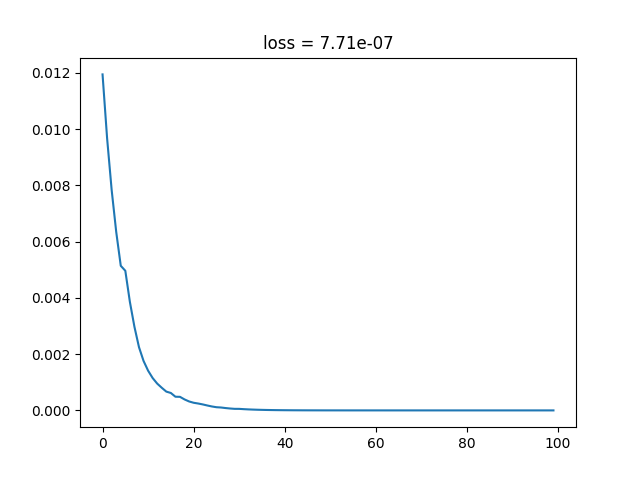
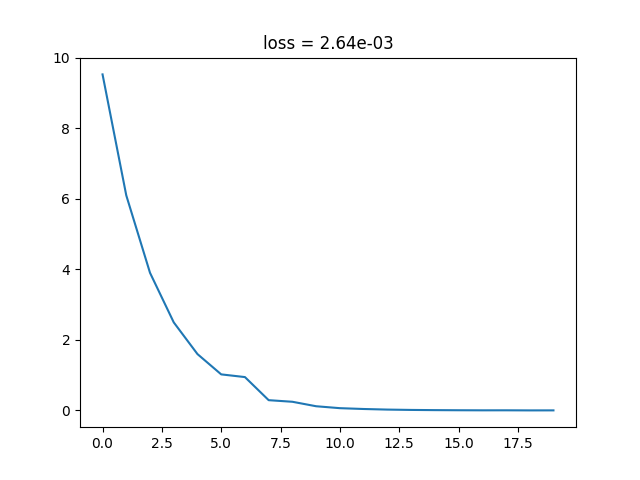
fixed some bugs for toll searches

diff --git a/opt_toll_noseg.py b/opt_toll_noseg.py
@@ -19,8 +19,8 @@ from tqdm import tqdm
 
 ## Script Options
 N_CPU = 1
-DENSITY_RECALIBRATE = True
-DENSITY_RETRAIN = True
+DENSITY_RECALIBRATE = False
+DENSITY_RETRAIN = False
 TRAIN_FRAC = 0.8#0.8
 
 ## Hyperparameters
@@ -167,7 +167,7 @@ for hour_idx in range(N_HOUR):
         origin_seg = segment_lst[s_o]
         for s_d in range(s_o, S):
             dest_seg = segment_lst[s_d]
-            HOUR_OD_DEMAND[hour_idx * segment_type_num + segment_idx] = df_od_demand[(df_od_demand["Hour"] == hour) & (df_od_demand["Origin"] == origin_seg) & (df_od_demand["Destination"] == dest_seg)].iloc[0]["Demand"] / 12
+            HOUR_OD_DEMAND[hour_idx * segment_type_num + segment_idx] = df_od_demand[(df_od_demand["Hour"] == hour) & (df_od_demand["Origin"] == origin_seg) & (df_od_demand["Destination"] == dest_seg)].iloc[0]["Demand"] #/ 12
             segment_idx += 1
 ###
 #N_DATES = len(df["Date"].unique())
@@ -774,15 +774,7 @@ def get_segment_pop(density, hour_idx):
     return segment_pop
 
 def get_flow_from_toll_iterative(density, tau_cs, meta_data = None, rho = 0.25, hour_idx = 12, num_itr = 10, lam = 0.5, schedule_lst = [], eta = 1):
-    if meta_data is not None:
-        N_HOUR = meta_data["N_HOUR"]
-        S = meta_data["S"]
-        C = meta_data["C"]
-        segment_type_num = meta_data["segment_type_num"]
-        BETA_RANGE_LST = meta_data["BETA_RANGE_LST"]
-        GAMMA_RANGE_DCT = meta_data["GAMMA_RANGE_DCT"]
-        HOUR_OD_DEMAND = meta_data["HOUR_OD_DEMAND"]
-        DISTANCE_ARR = meta_data["DISTANCE_ARR"]
+    global DISTANCE_ARR
     ### Get grid
     beta_lst, gamma_lst_c, d_idx_start_lst = get_grid(beta_range_lst = BETA_RANGE_LST, gamma_range_dct = GAMMA_RANGE_DCT)
     single_t_d_len = len(d_idx_start_lst) - 1
@@ -838,19 +830,18 @@ def get_flow_from_toll_iterative(density, tau_cs, meta_data = None, rho = 0.25, 
                 o_idx_lst = np.arange(begin, seg_end, S * 2)
                 h_idx_lst = o_idx_lst + 1
                 if segment_density_lst[segment_type_idx] > 1:
-                    segment_type_strategy[o_idx_lst] = 1 / (segment_len_lst[segment_type_idx] * C * 2)
-                    segment_type_strategy[h_idx_lst] = 1 / (segment_len_lst[segment_type_idx] * C * 2)
-                    if density_sum > 1:
+                    segment_type_strategy[o_idx_lst] = 1 / (C * 2) #1 / (segment_len_lst[segment_type_idx] * C * 2)
+                    segment_type_strategy[h_idx_lst] = 1 / (C * 2) #1 / (segment_len_lst[segment_type_idx] * C * 2)
+                    if density_sum > 0:
                         for d_idx in range(single_t_d_len):
-                            d_val = density[hour_idx * single_t_d_len + d_idx] #* HOUR_OD_DEMAND[hour_idx * segment_type_num + segment_type_idx]
+                            d_val = density[hour_idx * single_t_d_len + d_idx]
                             elem_num = d_idx_start_lst[d_idx + 1] - d_idx_start_lst[d_idx]
                             equi_val = d_val / elem_num / density_sum / segment_len_lst[segment_type_idx]
                             equi_profile_to_strategy_density_vec[d_idx_start_lst[d_idx]:d_idx_start_lst[d_idx+1],o_idx_lst] = equi_val
                             equi_profile_to_strategy_density_vec[d_idx_start_lst[d_idx]:d_idx_start_lst[d_idx+1],h_idx_lst] = equi_val
-                            equi_profile_to_strategy_pop_vec[d_idx_start_lst[d_idx]:d_idx_start_lst[d_idx+1],o_idx_lst] = equi_val * density_sum
-                            equi_profile_to_strategy_pop_vec[d_idx_start_lst[d_idx]:d_idx_start_lst[d_idx+1],h_idx_lst] = equi_val * density_sum
+                            equi_profile_to_strategy_pop_vec[d_idx_start_lst[d_idx]:d_idx_start_lst[d_idx+1],o_idx_lst] = equi_val * density_sum * demand
+                            equi_profile_to_strategy_pop_vec[d_idx_start_lst[d_idx]:d_idx_start_lst[d_idx+1],h_idx_lst] = equi_val * density_sum * demand
             segment_type_idx += 1
-#    print(equi_profile_to_strategy_density_vec.sum(), segment_type_strategy.sum())
     o_lanes = int(NUM_LANES * (1 - rho))
     h_lanes = NUM_LANES - o_lanes
     utility_cost_arr = []
@@ -860,7 +851,7 @@ def get_flow_from_toll_iterative(density, tau_cs, meta_data = None, rho = 0.25, 
     segment_type_strategy_to_flow_o_map = torch.from_numpy(segment_type_strategy_to_flow_o_map)
     segment_type_strategy_to_flow_h_map = torch.from_numpy(segment_type_strategy_to_flow_h_map)
     segment_type_strategy = torch.from_numpy(segment_type_strategy).requires_grad_()
-    DISTANCE_ARR = torch.tensor(DISTANCE_ARR)
+    DISTANCE_ARR = torch.from_numpy(DISTANCE_ARR)
     beta_lst = torch.from_numpy(beta_lst)
     gamma_lst_c = torch.from_numpy(gamma_lst_c)
     tau_cs = torch.from_numpy(tau_cs)
@@ -879,23 +870,18 @@ def get_flow_from_toll_iterative(density, tau_cs, meta_data = None, rho = 0.25, 
         sigma_s[:,1::2] += sigma_s_h.reshape((len(beta_lst), segment_type_strategy_len // 2))
         equi_profile = (equi_profile_to_strategy_density_vec * sigma_s).sum(dim = 0)
         ### Update the guess
-        ratio = 1 / segment_type_strategy.view((segment_type_num, -1)).sum(dim = 1).repeat_interleave(C * S * 2)
-        EPS = 1e-3
-        seg_prob = torch.clip(segment_type_strategy * ratio / segment_type_num, EPS, 1 - EPS)
-        equi_prob = torch.clip(equi_profile / segment_type_num, EPS, 1 - EPS)
+#        ratio = 1 / segment_type_strategy.view((segment_type_num, -1)).sum(dim = 1).repeat_interleave(C * S * 2)
+#        EPS = 1e-3
+#        seg_prob = torch.clip(segment_type_strategy * ratio / segment_type_num, EPS, 1 - EPS)
+#        equi_prob = torch.clip(equi_profile / segment_type_num, EPS, 1 - EPS)
         sq_loss = torch.sum((segment_type_strategy - equi_profile) ** 2)
-        loss = -torch.sum(seg_prob * torch.log(equi_prob) + (1 - seg_prob) * torch.log(1 - equi_prob))
-        const_loss = torch.mean((segment_type_strategy.view((segment_type_num, -1)).sum(dim = 1) - 1) ** 2) * 100
+#        loss = -torch.sum(seg_prob * torch.log(equi_prob) + (1 - seg_prob) * torch.log(1 - equi_prob))
+#        const_loss = torch.mean((segment_type_strategy.view((segment_type_num, -1)).sum(dim = 1) - 1) ** 2) * 100
         loss = sq_loss
-#        sq_loss += const_loss
-        sq_loss.backward()
 #        loss += const_loss
-#        loss.backward()
+        loss.backward()
         with torch.no_grad():
             segment_type_strategy -= lam * segment_type_strategy.grad
-#            ratio = 1 / segment_type_strategy.view((segment_type_num, -1)).sum(dim = 1).repeat_interleave(C * S * 2)
-#            segment_type_strategy *= ratio
-#            print(segment_type_strategy.view((segment_type_num, -1)).sum(dim = 1))
         loss_arr.append(float(loss.data))
         segment_type_strategy.grad.zero_()
         if itr in schedule_lst:
@@ -904,15 +890,8 @@ def get_flow_from_toll_iterative(density, tau_cs, meta_data = None, rho = 0.25, 
         latency_tmp[::2] = latency_o.detach().numpy()
         latency_tmp[1::2] = latency_h.detach().numpy()
         latency_lst = np.tile(latency_tmp, segment_type_num * C).reshape((1, segment_type_strategy_len))
-#        if itr > 0:
-#            total_utility_cost_prev = (equi_profile_dens * (beta_lst.reshape((len(beta_lst), 1)) * latency_lst + tau_lst + gamma_lst_c_long)).sum()
-#            equi_profile_dens = equi_profile_to_strategy_density_vec * sigma_s
-#            total_utility_cost = (equi_profile_dens * (beta_lst.reshape((len(beta_lst), 1)) * latency_lst + tau_lst + gamma_lst_c_long)).sum()
-#            utility_cost_arr.append(total_utility_cost_prev - total_utility_cost)
-#        else:
-#            equi_profile_dens = equi_profile_to_strategy_density_vec * sigma_s
-    print(segment_type_strategy.data)
-    print(equi_profile.data)
+#    print(segment_type_strategy.data)
+#    print(equi_profile.data)
     segment_type_strategy = segment_type_strategy.detach().numpy()
     sigma_s = sigma_s.detach().numpy()
     segment_type_strategy_to_flow_o_map = segment_type_strategy_to_flow_o_map.numpy()
@@ -941,22 +920,13 @@ def get_flow_from_toll_iterative(density, tau_cs, meta_data = None, rho = 0.25, 
     total_utility_cost = (equi_profile_pop * (beta_lst.reshape((len(beta_lst), 1)) * latency_lst + tau_lst + gamma_lst_c_long)).sum()
     flow_o_equi = flow_o
     flow_h_equi = segment_type_strategy_to_flow_h2_map @ segment_type_strategy
-    plt.plot(loss_arr)
-    plt.title(loss_arr[-1])
-    plt.show()
-    assert False
+#    plt.plot(loss_arr)
+#    plt.title(loss_arr[-1])
+#    plt.show()
+#    assert False
     return segment_type_strategy, loss_arr, latency_o, latency_h, utility_cost_arr, total_travel_time, total_emission, total_revenue, total_utility_cost, flow_o_equi, flow_h_equi
 
 def get_flow_from_toll_iterative_heuristic(density, tau_cs, meta_data = None, rho = 0.25, hour_idx = 12, num_itr = 10, lam = 0.5):
-    if meta_data is not None:
-        N_HOUR = meta_data["N_HOUR"]
-        S = meta_data["S"]
-        C = meta_data["C"]
-        segment_type_num = meta_data["segment_type_num"]
-        BETA_RANGE_LST = meta_data["BETA_RANGE_LST"]
-        GAMMA_RANGE_DCT = meta_data["GAMMA_RANGE_DCT"]
-        HOUR_OD_DEMAND = meta_data["HOUR_OD_DEMAND"]
-        DISTANCE_ARR = meta_data["DISTANCE_ARR"]
     ### Get grid
     beta_lst, gamma_lst_c, d_idx_start_lst = get_grid(beta_range_lst = BETA_RANGE_LST, gamma_range_dct = GAMMA_RANGE_DCT)
     single_t_d_len = len(d_idx_start_lst) - 1
@@ -976,9 +946,9 @@ def get_flow_from_toll_iterative_heuristic(density, tau_cs, meta_data = None, rh
     segment_len_lst = np.zeros(segment_type_num)
     for c in range(C):
         segment_type_idx = 0
-        demand = HOUR_OD_DEMAND[hour_idx * segment_type_num + segment_type_idx]
         for s_o in range(S):
             for s_d in range(s_o, S):
+                demand = HOUR_OD_DEMAND[hour_idx * segment_type_num + segment_type_idx]
                 col_idx_o_begin = segment_type_idx * C * S * 2 + c * S * 2 + s_o * 2
                 col_idx_o_end = segment_type_idx * C * S * 2 + c * S * 2 + (s_d + 1) * 2
                 col_idx_h_begin = col_idx_o_begin + 1
@@ -1082,9 +1052,6 @@ def get_flow_from_toll_iterative_heuristic(density, tau_cs, meta_data = None, rh
     total_utility_cost = (equi_profile_pop * (beta_lst.reshape((len(beta_lst), 1)) * latency_lst + tau_lst + gamma_lst_c_long)).sum()
     flow_o_equi = flow_o
     flow_h_equi = segment_type_strategy_to_flow_h2_map @ segment_type_strategy
-    plt.plot(loss_arr)
-    plt.show()
-    assert False
     return segment_type_strategy, loss_arr, latency_o, latency_h, utility_cost_arr, total_travel_time, total_emission, total_revenue, total_utility_cost, flow_o_equi, flow_h_equi
 
 def describe_segment_type_strategy(sigma, density, hour_idx, eps = 1e-3):
@@ -1124,7 +1091,7 @@ def toll_design_grid_search_single(tau_tup_lst, density, hour_idx = 12, tau_max 
         tau_cs[1,:] = tau_cs[0,:] / 4
         for rho in rho_lst:
             ### segment_type_num * C * S * 2
-            segment_type_strategy, loss_arr, latency_o, latency_h, total_travel_time, total_emission, total_revenue, total_utility_cost, _, _ = get_flow_from_toll_iterative(density, tau_cs = tau_cs, rho = rho, hour_idx = hour_idx, num_itr = num_itr, lam = lam)
+            segment_type_strategy, loss_arr, latency_o, latency_h, utility_cost_arr, total_travel_time, total_emission, total_revenue, total_utility_cost, _, _ = get_flow_from_toll_iterative(density, tau_cs = tau_cs, rho = rho, hour_idx = hour_idx, num_itr = num_itr, lam = lam)
             ### Store results
             dct_results["Rho"].append(rho)
             dct_results["Loss"].append(loss_arr[-1])
@@ -1270,34 +1237,31 @@ if DENSITY_RECALIBRATE:
         np.save("density/preference_density_general.npy", density)
 else:
     density = np.load("density/preference_density_general.npy")
-describe_density(density)
+#describe_density(density)
 
-assert False
+#assert False
 
-segment_type_strategy, loss_arr, utility_cost_arr, latency_o, latency_h, total_travel_time, total_emission, total_revenue, total_utility_cost = get_flow_from_toll_iterative(density, tau_cs = np.array([[5, 1.25, 0], [5, 1.25, 0], [5, 1.25, 0], [5, 1.25, 0], [5, 1.25, 0]]).T, rho = 0.25, hour_idx = 12, num_itr = 100, lam = 1e-1)
-#print(segment_type_strategy.round(3))
-#print(segment_type_strategy.sum())
-print(total_travel_time, total_emission, total_revenue, total_utility_cost)
-print("Final Loss:", loss_arr[-1])
-describe_segment_type_strategy(segment_type_strategy, density, hour_idx = 12, eps = 1e-2)
-
-plt.plot(loss_arr)
-#plt.yscale("log")
-plt.title(f"loss = {loss_arr[-1]:.2e}")
-plt.savefig("loss.png")
-plt.clf()
-plt.close()
-
-plt.plot(utility_cost_arr)
-#plt.yscale("log")
-plt.title(f"Utility Cost = {utility_cost_arr[-1]:.2e}")
-plt.savefig("utility_cost.png")
-plt.clf()
-plt.close()
+#segment_type_strategy, loss_arr, latency_o, latency_h, utility_cost_arr, total_travel_time, total_emission, total_revenue, total_utility_cost, flow_o_equi, flow_h_equi  = get_flow_from_toll_iterative(density, tau_cs = np.array([[2, 0.5, 0], [3, 0.75, 0], [3, 0.75, 0], [2, 0.5, 0], [2, 0.5, 0]]).T, rho = 0.25, hour_idx = 3, num_itr = 20, lam = 1e-1)
+##print(segment_type_strategy.round(3))
+##print(segment_type_strategy.sum())
+##print(total_travel_time, total_emission, total_revenue, total_utility_cost)
+##print("Final Loss:", loss_arr[-1])
+##print(flow_o_equi)
+##print(flow_h_equi)
+##describe_segment_type_strategy(segment_type_strategy, density, hour_idx = 3, eps = 1e-2)
+#
+#plt.plot(loss_arr)
+##plt.yscale("log")
+#plt.title(f"loss = {loss_arr[-1]:.2e}")
+#plt.savefig("loss.png")
+#plt.clf()
+#plt.close()
+#
+#assert False
 
 df_all = None
-for hour_idx in tqdm(range(15)):
-    df = toll_design_grid_search(density, hour_idx = hour_idx, tau_max = 5, d_tau = 1, rho_lst = [0.25], num_itr = 300, lam = 1e-2)
+for hour_idx in tqdm(range(4)):
+    df = toll_design_grid_search(density, hour_idx = hour_idx, tau_max = 5, d_tau = 1, rho_lst = [0.25], num_itr = 20, lam = 1e-1)
     df["Hour"] = hour_idx + 5
     if df_all is None:
         df_all = df
